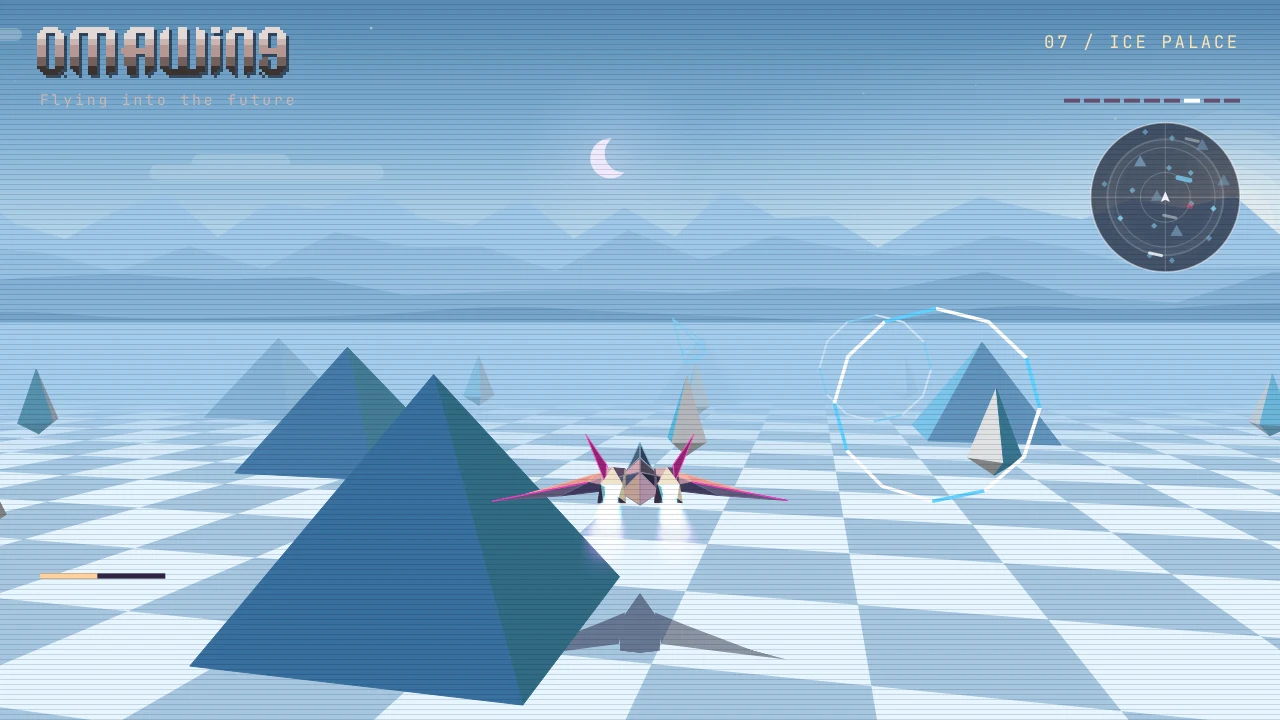
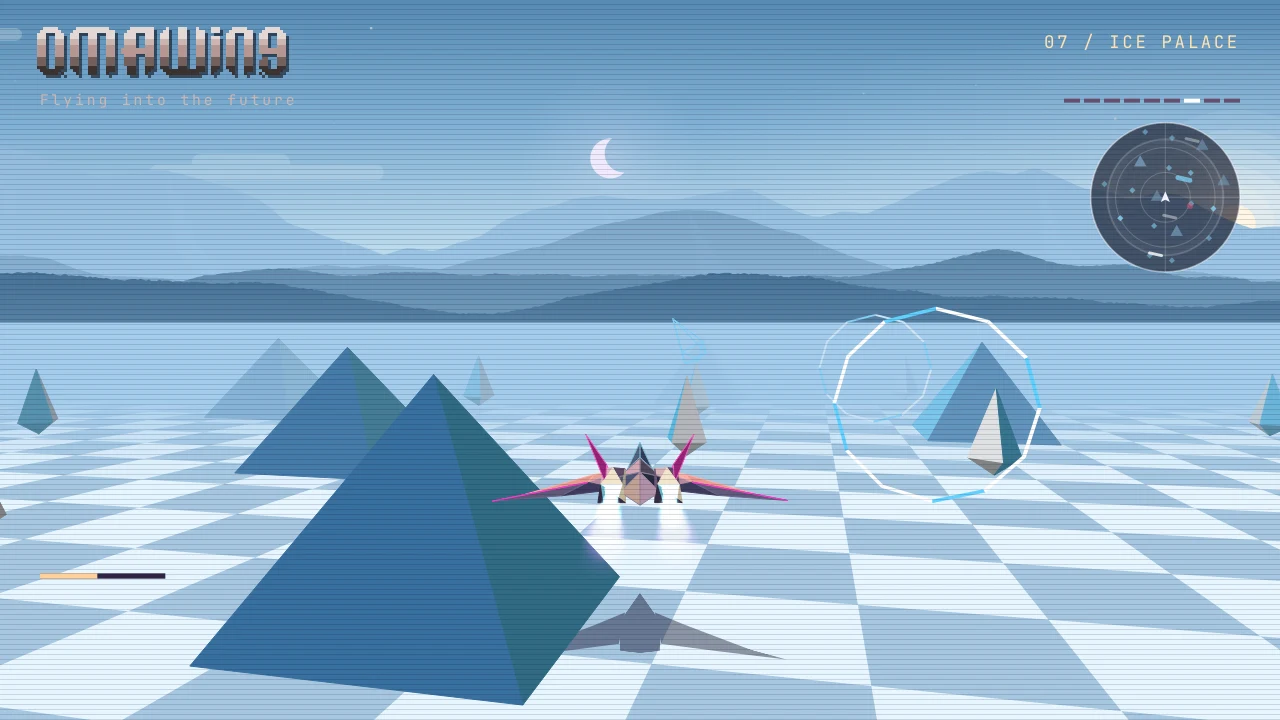
Shape natural mountain ridges with shaded peaks and detailed foothills

diff --git a/src/sky.cpp b/src/sky.cpp
@@ -208,16 +208,15 @@ void Sky::paintBackdrop(QPainter &p, const View &view, double horizon) {
     }
 
     struct Ridge {
-        double turn, slide, sink, spacing, low, high, haze;
-        bool rounded;
+        double turn, slide, sink, spacing, low, high, haze, roughness;
     };
     static const Ridge ridges[] = {
-        {1.0, 0.18, 0.08, 38, 48, 115, 0.86, false}, // Distant pale-blue peaks.
-        {1.15, 0.75, 0.3, 55, 32, 82, 0.65, false},
-        {1.35, 2.1, 0.8, 72, 16, 52, 0.36, false},
-        {1.65, 4.2, 1.4, 94, 8, 29, 0.10, true},   // Dark, broad foothills.
+        {1.0, 0.18, 0.08, 160, 28, 138, 0.84, 0.35},
+        {1.15, 0.75, 0.3, 185, 18, 100, 0.62, 0.6},
+        {1.35, 2.1, 0.8, 145, 12, 68, 0.34, 1.1},
+        {1.65, 4.2, 1.4, 180, 8, 55, 0.12, 1.6},
     };
-    const Vec rock = blend(view.palette.floor, view.palette.mid, 0.3);
+    const Vec rock = blend(blend(view.palette.floor, view.palette.mid, 0.3), hex("#183e60"), 0.6);
     const Vec air = view.atmosphere();
     for (int layer = 0; layer < 4; ++layer) {
         const Ridge &r = ridges[layer];
@@ -225,34 +224,68 @@ void Sky::paintBackdrop(QPainter &p, const View &view, double horizon) {
         const int count = std::max(8, int(std::lround(period / r.spacing)));
         const double step = period / count;
         const double scroll = view.camera.yaw * View::Focal * r.turn + view.camera.drift * r.slide;
-        // Flying higher reveals the valleys. Near hills move more quickly
-        // across the view, while the remote peaks barely shift sideways.
         const double base = horizon + std::max(0.0, view.camera.y - 2) * r.sink;
-        const int first = int(std::floor(scroll / step)) - 1, points = int(std::ceil(W / step)) + 3;
-        auto peak = [&](int g) {
-            const int index = ((g % count) + count) % count;
-            // Broad shoulders break up the repeated triangular silhouette.
-            const double shape = 0.65 * hash(index, 60 + layer) + 0.35 * hash(index / 3, 80 + layer);
-            return QPointF(g * step - scroll, base - mix(r.low, r.high, shape));
+        // Periodic noise at several scales makes broad massifs, secondary
+        // shoulders and fine broken ridgelines. All detail is anchored to
+        // the panorama, so it travels with the mountains without shimmering.
+        auto noise = [&](double x, int frequency, int seed, double softness) {
+            const double u = x / period * count * frequency;
+            const int cell = int(std::floor(u)), cells = count * frequency;
+            auto sample = [&](int i) { return hash((i % cells + cells) % cells, seed + layer * 11); };
+            const double t = u - cell;
+            return mix(sample(cell), sample(cell + 1), mix(t, smooth(t), softness));
         };
-        QPainterPath path(QPointF(first * step - scroll, base + 40));
-        path.lineTo(peak(first));
-        for (int j = 1; j <= points; ++j) {
-            const QPointF here = peak(first + j);
-            if (r.rounded) {
-                const QPointF before = peak(first + j - 1);
-                path.quadTo(before, (before + here) / 2);
-            } else {
-                path.lineTo(here);
-            }
+        auto height = [&](double x) {
+            const double broad = noise(x, 1, 60, layer < 2 ? 0.15 : 0.75);
+            const double shoulder = noise(x, 3, 80, 0.75);
+            const double detail = noise(x, 9, 100, 0.4);
+            const double shape = clampTo(0.78 * broad + 0.17 * shoulder + 0.05 * detail, 0, 1);
+            return mix(r.low, r.high, shape) + r.roughness * noise(x, 110, 130, 0);
+        };
+        // Two-pixel world samples preserve the small rocky/wooded edge
+        // without adding individual trees or expensive scenery meshes.
+        const int samples = int(std::ceil(period / 2));
+        const double detailStep = period / samples;
+        static std::array<std::vector<double>, 4> profiles;
+        auto &profile = profiles[layer];
+        if (profile.empty()) {
+            profile.reserve(samples);
+            for (int i = 0; i < samples; ++i) profile.push_back(height(i * detailStep));
         }
-        path.lineTo((first + points) * step - scroll, base + 40);
+        const int first = int(std::floor(scroll / detailStep)) - 1;
+        const int points = int(std::ceil(W / detailStep)) + 3;
+        QPainterPath path(QPointF(first * detailStep - scroll, base + 40));
+        for (int j = 0; j <= points; ++j) {
+            const double x = (first + j) * detailStep;
+            const int index = ((first + j) % samples + samples) % samples;
+            path.lineTo(x - scroll, base - profile[index]);
+        }
+        path.lineTo((first + points) * detailStep - scroll, base + 40);
         path.closeSubpath();
-        // Haze pools in each valley, separating overlapping silhouettes.
-        // Far ridges lose contrast and saturation, not just opacity.
         QLinearGradient mist(0, base - r.high, 0, base);
         mist.setColorAt(0, rgb(blend(rock, air, r.haze)));
         mist.setColorAt(1, rgb(blend(rock, air, std::min(0.97, r.haze + 0.18))));
         p.fillPath(path, mist);
+
+        // A few quiet faces suggest volume in the remote peaks. Clip them
+        // to their own range; the nearer ranges naturally cover their feet.
+        if (layer < 2) {
+            p.save();
+            p.setClipPath(path, Qt::IntersectClip);
+            const int start = int(std::floor(scroll / step)) - 1;
+            for (int j = start; j < start + int(std::ceil(W / step)) + 3; ++j) {
+                const double x = j * step, h = height(x);
+                if (h < height(x - step * 0.4) || h < height(x + step * 0.4)) continue;
+                const double px = x - scroll, py = base - h;
+                QPainterPath facet(QPointF(px, py));
+                facet.lineTo(px + step * 0.12, py + h * 0.45);
+                facet.lineTo(px + step * 0.52, base + 10);
+                facet.lineTo(px + step * 0.28, base + 10);
+                facet.lineTo(px + step * 0.04, py + h * 0.5);
+                facet.closeSubpath();
+                p.fillPath(facet, withAlpha(rgb(air), layer == 0 ? 0.16 : 0.10));
+            }
+            p.restore();
+        }
     }
 }
